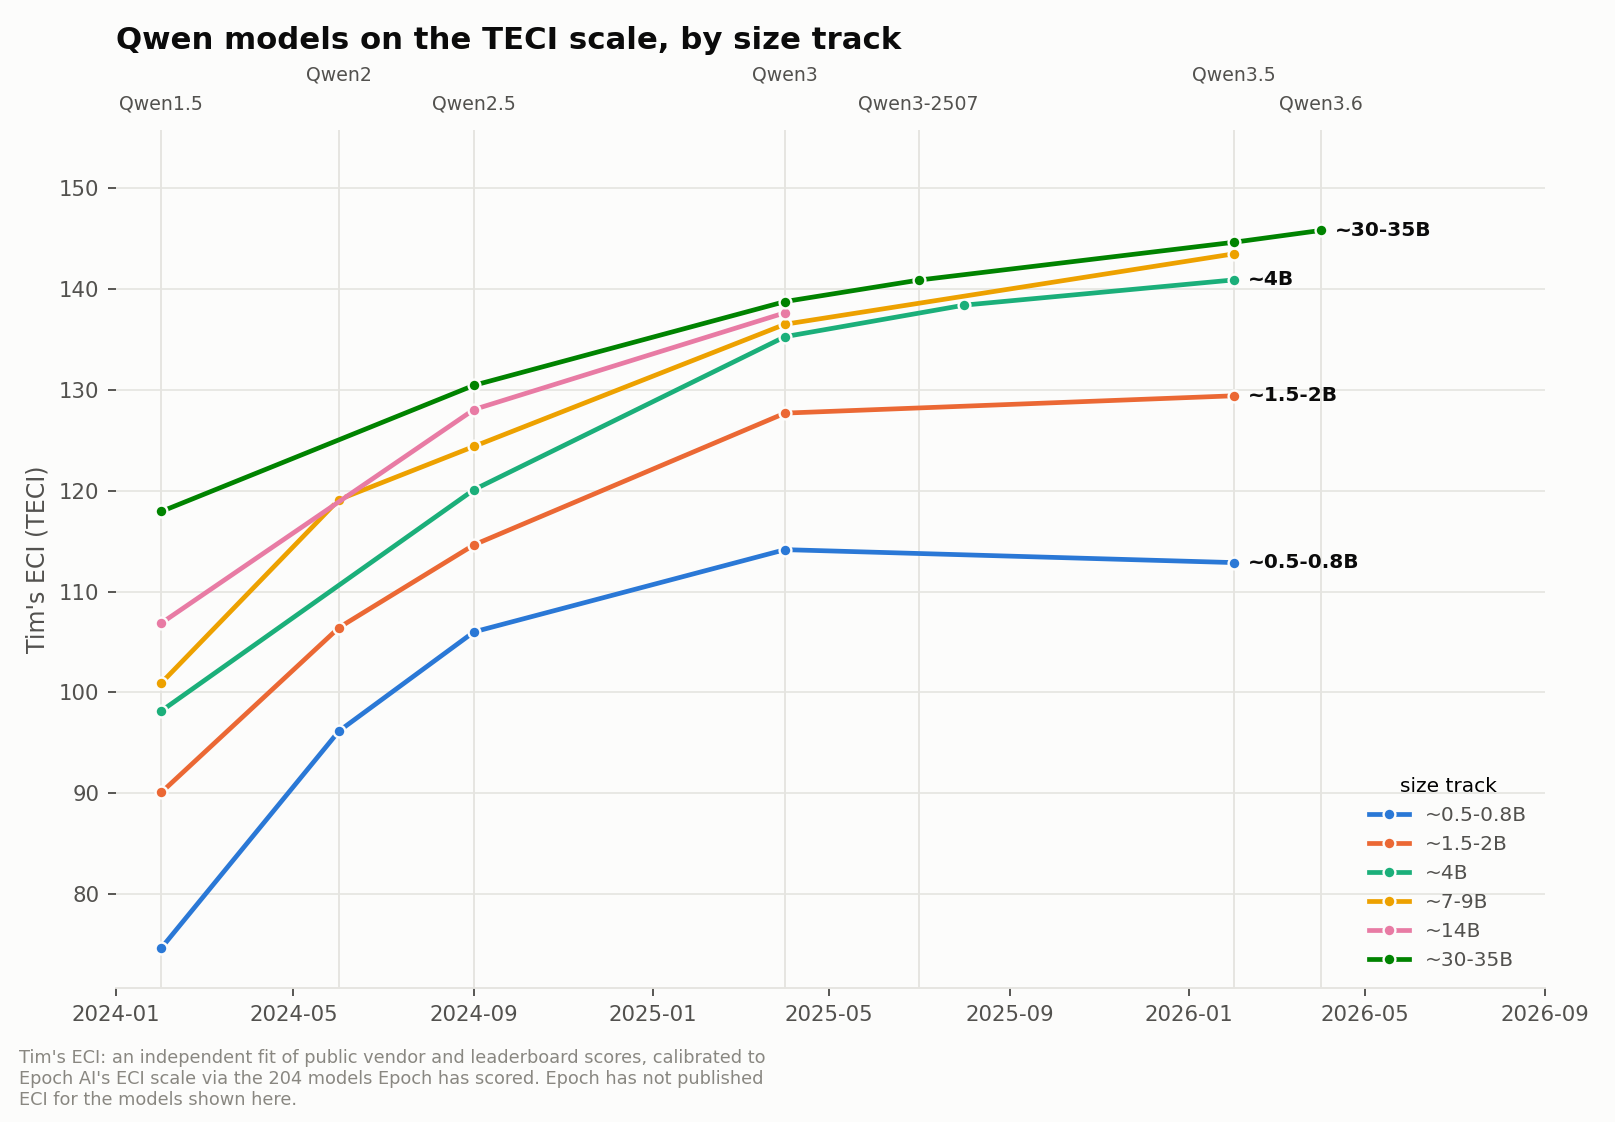
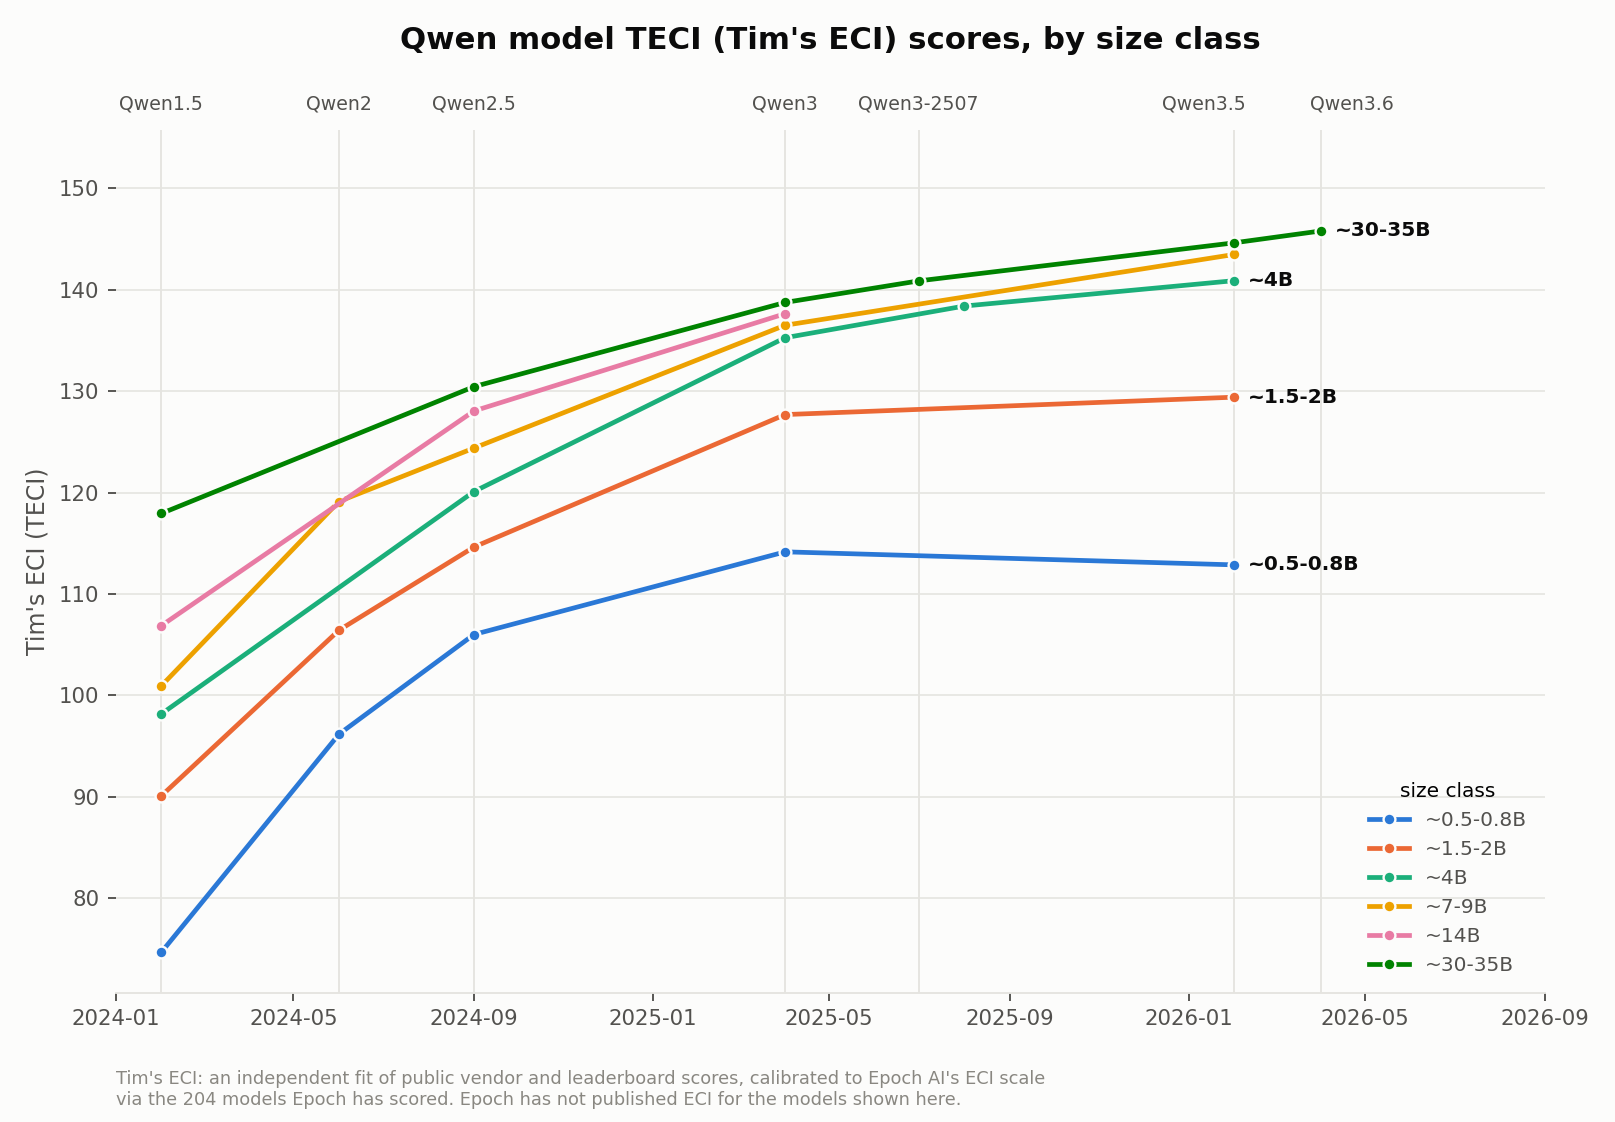
Retitle the Qwen chart; record the TECI convention; drop stale chart copies
Qwen chart: header is now "Qwen model TECI (Tim's ECI) scores, by size class"
and centred; the legend title follows it from "size track" to "size class" so
the two agree. Generation labels drop to a single row, with Qwen3.5 and
Qwen3.6 nudged 13pt apart -- they are only two months apart, and the hairline
still marks the exact date, so only the label slides. The footnote aligns to
the axes' left edge (placed after tight_layout, which is what makes the axes
position available) and rewraps to two lines.

CLAUDE.md: records the TECI naming rule in Conventions -- what our numbers are
called, why the name follows Anthropic's "<owner> ECI" pattern, and why the
footnote does NOT copy their "not directly comparable" caveat. Reserves
unqualified "ECI" for Epoch's own published values.

Also corrects two counts there that went stale when the bridge set grew from
8 to 18: method A rescales on 204 pure-Epoch models, not 214, and method C
maps through 18 bridges, not 8. Notes A's parameter count and that every
difficulty and slope is refit, since that is easy to misread as inheriting
Epoch's fitted values.

Removes charts/eci_trajectories_old.png and eci_trajectories_qwen_old.png,
which an earlier `git add -A` swept in. Both are superseded renders and git
history holds every prior version.

diff --git a/scripts/mk_chart_qwen.py b/scripts/mk_chart_qwen.py
@@ -21,9 +21,8 @@ C = ["#2a78d6", "#eb6834", "#1baf7a", "#eda100", "#e87ba4", "#008300"]
 # not scored the small models we care about, so these values are our estimates.
 # Saying "not directly comparable" here would disclaim the wrong thing.
 TECI_AXIS = "Tim's ECI (TECI)"
-TECI_NOTE = ("Tim's ECI: an independent fit of public vendor and leaderboard scores, calibrated to\n"
-             "Epoch AI's ECI scale via the 204 models Epoch has scored. Epoch has not published\n"
-             "ECI for the models shown here.")
+TECI_NOTE = ("Tim's ECI: an independent fit of public vendor and leaderboard scores, calibrated to Epoch AI's ECI scale\n"
+             "via the 204 models Epoch has scored. Epoch has not published ECI for the models shown here.")
 
 r = pd.read_csv("results_methods.csv")
 r["date"] = pd.to_datetime(r.release.astype(str), format="%Y-%m")
@@ -61,16 +60,18 @@ ax.set_ylim(min(_plotted) - 4, max(_plotted) + 10)
 # a single x position and the markers are already vertically aligned. A hairline
 # through each one names the release wave without adding a colour or a shape:
 # the date axis keeps the real calendar spacing, and the labels say what the
-# clusters are. Labels alternate between two rows because Qwen3.5 (2026-02) and
-# Qwen3.6 (2026-04) are two months apart and would otherwise collide.
+# clusters are. All labels sit on one line; Qwen3.5 (2026-02) and Qwen3.6
+# (2026-04) are only two months apart, so they are nudged a few points apart --
+# the hairline still marks the exact release date, only the label slides.
+GEN_NUDGE = {"Qwen3.5": -13, "Qwen3.6": 13}
 plotted = {e for es in TRACKS.values() for e in es if e in rr.index}
 gen_date = (r[r.entry.isin(plotted)].groupby("generation").date.min().sort_values())
-for k, (gen, d) in enumerate(gen_date.items()):
+for gen, d in gen_date.items():
     ax.axvline(d, color=GRID, lw=0.8, zorder=1)
     # date2num: annotate's xy goes through the affine transform directly and
     # will not accept a Timestamp
     ax.annotate(gen, xy=(mdates.date2num(d), 1.0), xycoords=ax.get_xaxis_transform(),
-                xytext=(0, 7 + (k % 2) * 12), textcoords="offset points",
+                xytext=(GEN_NUDGE.get(gen, 0), 7), textcoords="offset points",
                 ha="center", va="bottom", fontsize=8, color=INK2, zorder=4)
 
 DIRECT = {"~0.5-0.8B", "~1.5-2B", "~4B", "~30-35B"}
@@ -91,13 +92,15 @@ ax.xaxis.set_major_formatter(mdates.DateFormatter("%Y-%m"))
 ax.set_xlim(pd.Timestamp("2024-01-01"), pd.Timestamp("2026-09-01"))
 ax.set_ylabel(TECI_AXIS, color=INK2, fontsize=10)
 ax.legend(loc="lower right", fontsize=8.5, frameon=False, labelcolor=INK2,
-          title="size track", title_fontsize=8.5)
+          title="size class", title_fontsize=8.5)
 # no "(Qwen1.5 onward)": the generation labels along the top say where it starts
-ax.set_title("Qwen models on the TECI scale, by size track",
-             color=INK, fontsize=13, loc="left", fontweight="bold", pad=34)
-# the disclaimer rides at the foot rather than under the title, so the header
-# stays clean and the claim is still on the chart wherever it gets pasted
-fig.text(0.012, 0.012, TECI_NOTE, color=MUTED, fontsize=7.5, va="bottom")
-fig.tight_layout(rect=(0, 0.062, 1, 1))
+ax.set_title("Qwen model TECI (Tim's ECI) scores, by size class",
+             color=INK, fontsize=13, loc="center", fontweight="bold", pad=34)
+# The disclaimer rides at the foot rather than under the title, so the header
+# stays clean and the claim travels with the image wherever it gets pasted.
+# Placed after tight_layout so it can be aligned to the axes' left edge -- the
+# space it sits in is reserved by the rect below.
+fig.tight_layout(rect=(0, 0.058, 1, 1))
+fig.text(ax.get_position().x0, 0.012, TECI_NOTE, color=MUTED, fontsize=7.5, va="bottom")
 fig.savefig("eci_trajectories_qwen.png", dpi=170, facecolor=SURF)
 print("saved")

diff --git a/CLAUDE.md b/CLAUDE.md
@@ -1,8 +1,9 @@
-# Small-model capabilities index (Qwen/Gemma ≤35B, ECI-grafted)
+# Small-model capabilities index (TECI: small models grafted onto Epoch's ECI scale)
 
 Tim's project tracking whether benchmark progress differs across model sizes
 (core question: is the 0.5–2B tier plateauing relative to ~30B?), by placing
-small models on the Epoch Capabilities Index (ECI) scale. Qwen and Gemma are
+small models on the Epoch Capabilities Index (ECI) scale. Our resulting numbers
+are called TECI, not ECI — see Conventions. Qwen and Gemma are
 the backbone (80 entries, full vendor benchmark suites); SmolLM, OLMo, Llama
 and Phi were added later from the Open LLM Leaderboard (43 entries) to keep the
 low end from being calibrated by Qwen and Gemma alone.
@@ -59,10 +60,21 @@ own location and can be run from anywhere.
   (all per Epoch's eci-public conventions).
 - OLL and LiveBench instruments are cross-family (same harness); vendor
   instruments are family-scoped.
+- **Our numbers are TECI ("Tim's ECI"), never plain "ECI".** Epoch has published
+  no ECI for any model we score; our values are estimates calibrated onto their
+  scale via the 204 models they *have* scored (method A's rescale, r=0.9998).
+  Charts and generated docs say `Tim's ECI (TECI)` on the axis, `TECI/yr` for
+  rates, and carry the footnote in `TECI_NOTE` (defined per chart script).
+  Naming follows Anthropic's convention for their own variant ("Anthropic ECI"):
+  owner's name in front of the metric. The footnote deliberately does NOT copy
+  Anthropic's "not directly comparable" caveat — theirs uses internal benchmarks,
+  ours is calibrated onto Epoch's scale on purpose. What differs is *coverage*,
+  not comparability. Reserve unqualified "ECI" for Epoch's own published values
+  (`data/eci_published.csv`, and the diamonds on the method-agreement chart).
 - **Bridge on Epoch's `model_version` column, never on the display name.**
   Epoch's names drop the base/instruct distinction that the entry convention
   depends on: 14 of their 222 nodes pool base and instruct observations under
-  one name, and instruction tuning is worth a median +11 ECI in our own fit.
+  one name, and instruction tuning is worth a median +11 TECI in our own fit.
   Two bridges were wrong on exactly this before the "Fix two mis-specified
   bridge nodes" commit. `Llama 3-8B` is the one bridge knowingly left pooled
   (1 base observation out of 9).
@@ -70,14 +82,20 @@ own location and can be run from anywhere.
 ## Fit methods
 
 - **A (headline): joint refit** of our obs + `data/eci_benchmarks.csv`
-  (Epoch's full 222-model matrix; 8 bridge nodes merged), rescaled via 214
-  pure-Epoch models against `data/eci_published.csv`.
+  (Epoch's full 222-model matrix; 18 bridge nodes merged), rescaled via the
+  remaining 204 pure-Epoch models against `data/eci_published.csv`, r=0.9998.
+  327 nodes × 176 instruments, 3,652 observations. Every difficulty and slope
+  is re-estimated — nothing of Epoch's published EDI/slope is held fixed; their
+  role is the observation matrix plus the final affine rescale.
 - **B: frozen graft** — `data/edi_frozen.csv` (Epoch's published EDI/slope, ECI
   units) held fixed; our-only instruments estimated by alternation.
   Known bias: runs 3–8 pts high for top thinking entries (vendor-reported
   scores vs Epoch's own harness on GPQA/HLE/Aider).
-- **C: standalone** fit + affine map via 8 shared models (6 Gemma,
-  Qwen3.5/3.6-35B-A3B).
+- **C: standalone** fit + affine map via the 18 bridge models. Degrades for
+  thin-observation entries: the OLL cross-family entries carry only six
+  observations each, and phi-4 lands ~12 pts low under C (and ~10 low under B)
+  against its published ECI, where A — which also sees Epoch's data for that
+  node — is within 2.4.
 - Model spec mirrors `eci-upstream/` (epoch-research/eci-public, MIT):
   performance = σ(slope·(cap − difficulty)), ridge 0.1, scipy trf least
   squares, Winogrande slope pinned; scale anchors Claude 3.5 Sonnet=130, GPT-5=150.
